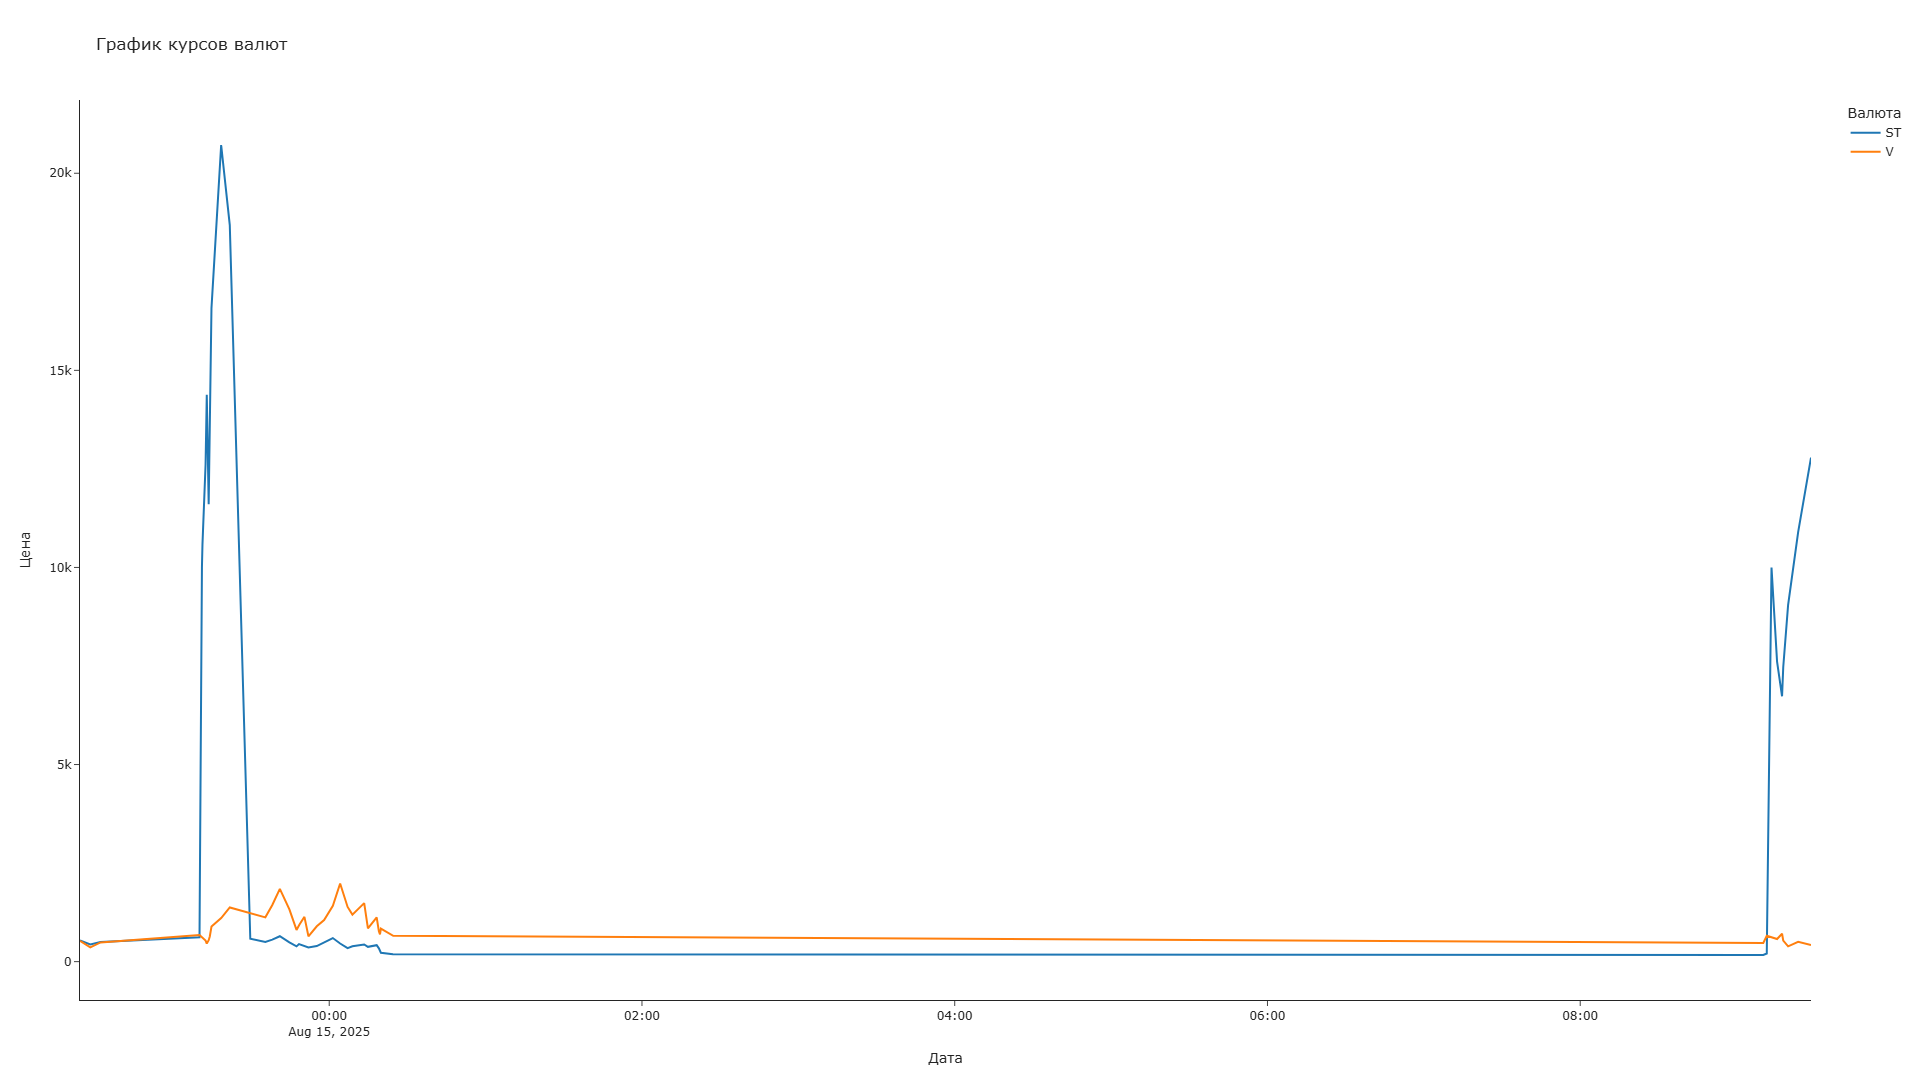
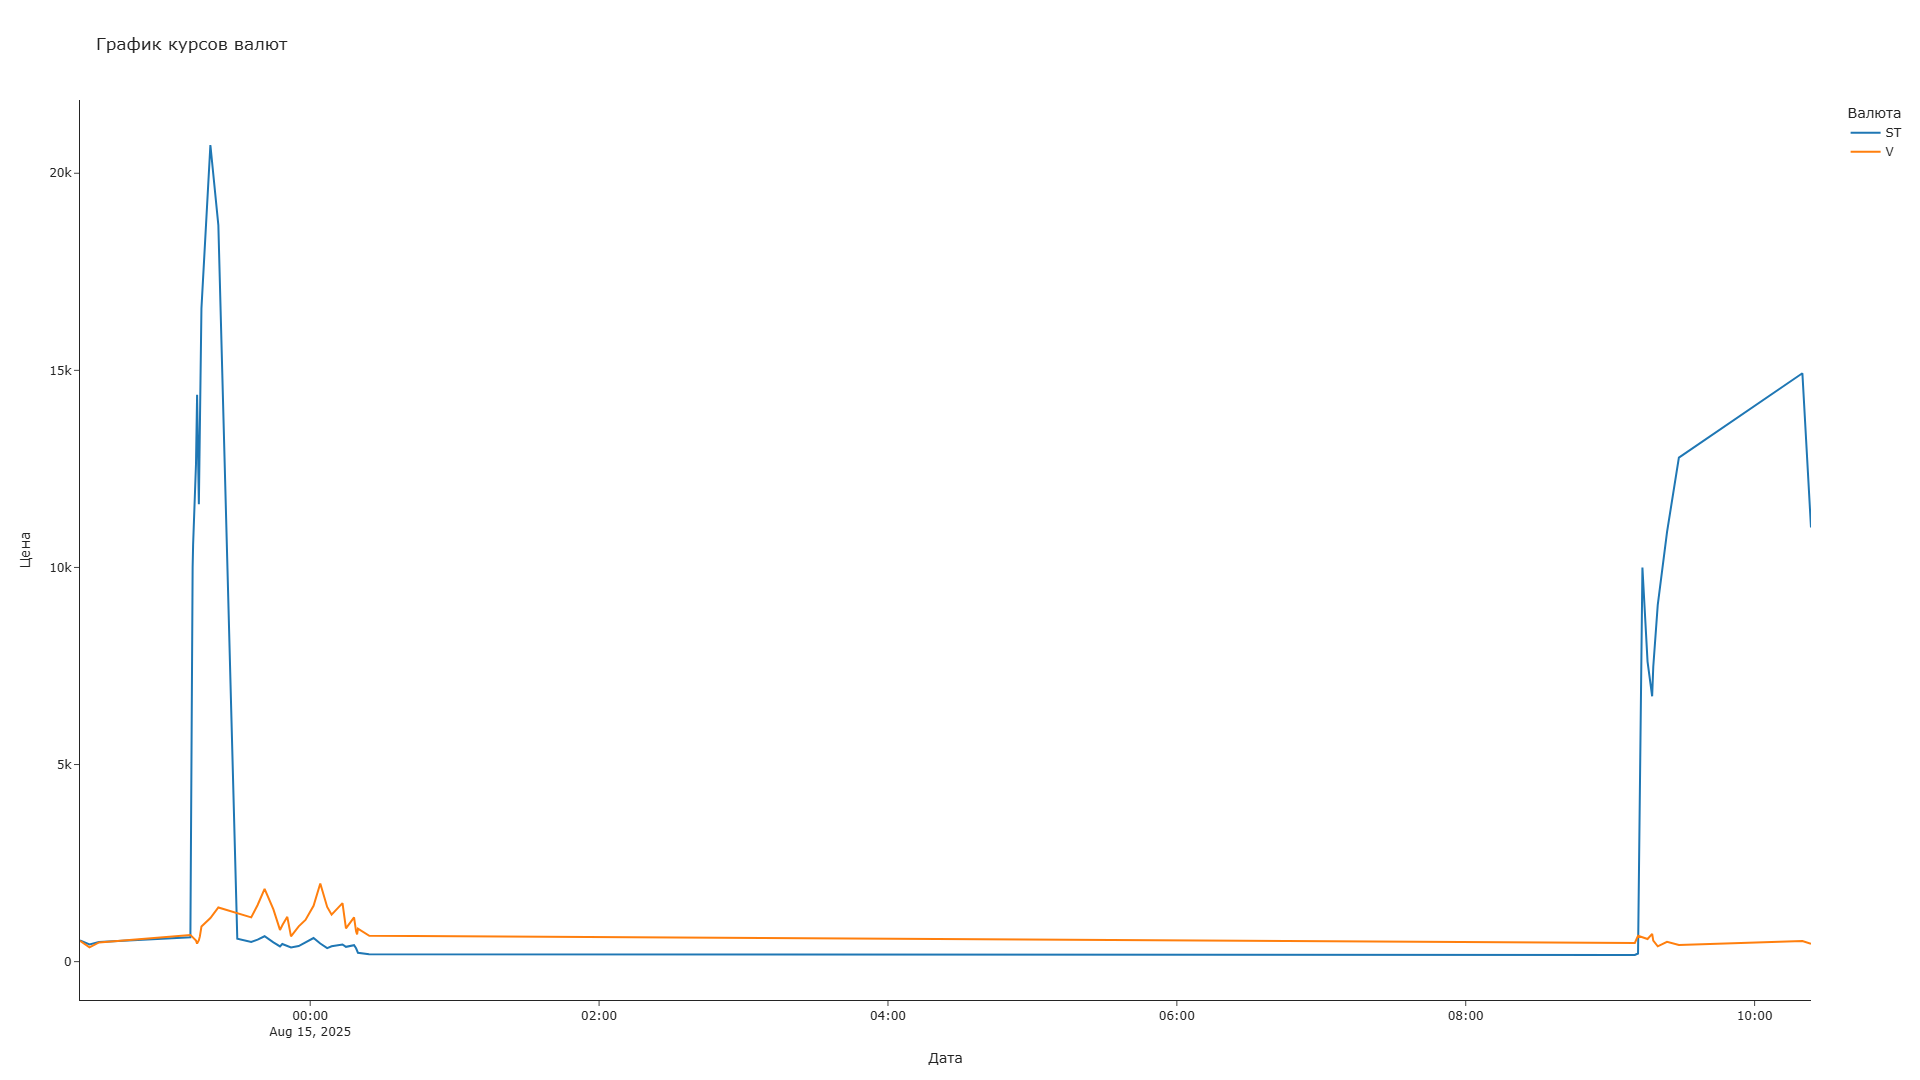
style: :rotating_light: fix more codacy and ruff warning
Исправлено ещё больше ошибок и предупреждений от Ruff и Codacy

diff --git a/database/currencies.py b/database/currencies.py
@@ -369,6 +369,29 @@ async def log_coin_change(name: str, price: float) -> None:
     )
 
 
+async def log_and_update_coin(
+    name: str, new_price: float, new_diff_percent: float, max_values: dict[str, float], bot: Bot
+):
+    from database.currencies import get_price
+    from database.messages import send_broadcast_message
+
+    coin_info = await get_price(name, is_round=False)
+    await log_coin_change(name, new_price)
+    await db.update_data("coins", {"cost": new_price, "diff": new_diff_percent}, {"name": name})
+
+    if await reached_half_of_limit(
+        new_diff_percent,
+        max_growth=max_values.get("max_growth"),
+        max_fall=max_values.get("max_fall"),
+    ):
+        text = {True: "Резкий рост", False: "Резкое падение"}[await is_positive(new_diff_percent)]
+        await send_broadcast_message(
+            f"🔔 <b>{text}!</b>\n\n<b>{name.upper()}</b> резко изменилась в цене c <b>{coin_info['cost']} RUB</b> до <b>{new_price} RUB</b> <i>({new_diff_percent}%)</i>",
+            bot,
+            author_id=None,
+        )
+
+
 async def change_coin(name: str, bot: Bot, price: float | None = None) -> None:
     """
     Функция, которая меняет цену валюты
@@ -377,7 +400,7 @@ async def change_coin(name: str, bot: Bot, price: float | None = None) -> None:
     :param price: Цена (необходимо указывать, когда меняем цену вручную)
     :return: None
     """
-    from database.messages import send_broadcast_message, send_for_admins
+    from database.messages import send_for_admins
 
     coin: Coin = {"st": st, "v": v}[name]
 
@@ -428,18 +451,13 @@ async def change_coin(name: str, bot: Bot, price: float | None = None) -> None:
     new_diff_percent = round(random_percent * 100, 4)
 
     try:
-        await log_coin_change(name, new_price)
-        await db.update_data("coins", {"cost": new_price, "diff": new_diff_percent}, {"name": name})
-
-        if await reached_half_of_limit(new_diff_percent, max_growth=max_growth, max_fall=max_fall):
-            text = {True: "Резкий рост", False: "Резкое падение"}[
-                await is_positive(new_diff_percent)
-            ]
-            await send_broadcast_message(
-                f"🔔 <b>{text}!</b>\n\n<b>{name.upper()}</b> резко изменилась в цене c <b>{coin_info['cost']} RUB</b> до <b>{new_price} RUB</b> <i>({new_diff_percent}%)</i>",
-                bot,
-                author_id=None,
-            )
+        await log_and_update_coin(
+            name,
+            new_price,
+            new_diff_percent,
+            max_values={"max_growth": max_growth, "max_fall": max_fall},
+            bot=bot,
+        )
     except Exception as e:
         await send_for_admins(
             bot, f"❌ Произошла ошибка во время изменения цены {name.upper()}: {e}"

diff --git a/handlers/commands.py b/handlers/commands.py
@@ -1,8 +1,5 @@
-from random import uniform
-
 from aiogram import Router
 from aiogram.filters import Command, CommandStart
-from aiogram.fsm.context import FSMContext
 from aiogram.types import Message
 
 from database.currencies import calculate_precise_growth_chance
@@ -68,18 +65,6 @@ async def help_handler(message: Message):
         "<i>Разработчик: @zenqst</i>"
     )
     await message.answer(text)
-
-
-@router.message(Command("check"))
-async def check_handler(message: Message, state: FSMContext):
-    status = await check_profile(message.from_user.id)
-    data = await state.get_data()
-    random_nu = uniform(2.50, 5.00)
-
-    await message.answer(
-        f"Текущий статус: {status}\n\nДанные Interaction: {data}\n\nRandom: {random_nu}",
-        parse_mode=None,
-    )
 
 
 @router.message(Command("chance"))

diff --git a/database/user.py b/database/user.py
@@ -30,8 +30,8 @@ async def get_profile(user_id: int) -> ProfileData:
     return data
 
 
-async def check_profile(id: int) -> UserStatus:
-    data = await db.select_data("users", "id", {"id": id})
+async def check_profile(user_id: int) -> UserStatus:
+    data = await db.select_data("users", "id", {"id": user_id})
     if data:
         return UserStatus.ALREADY_EXISTS
     elif not data:
